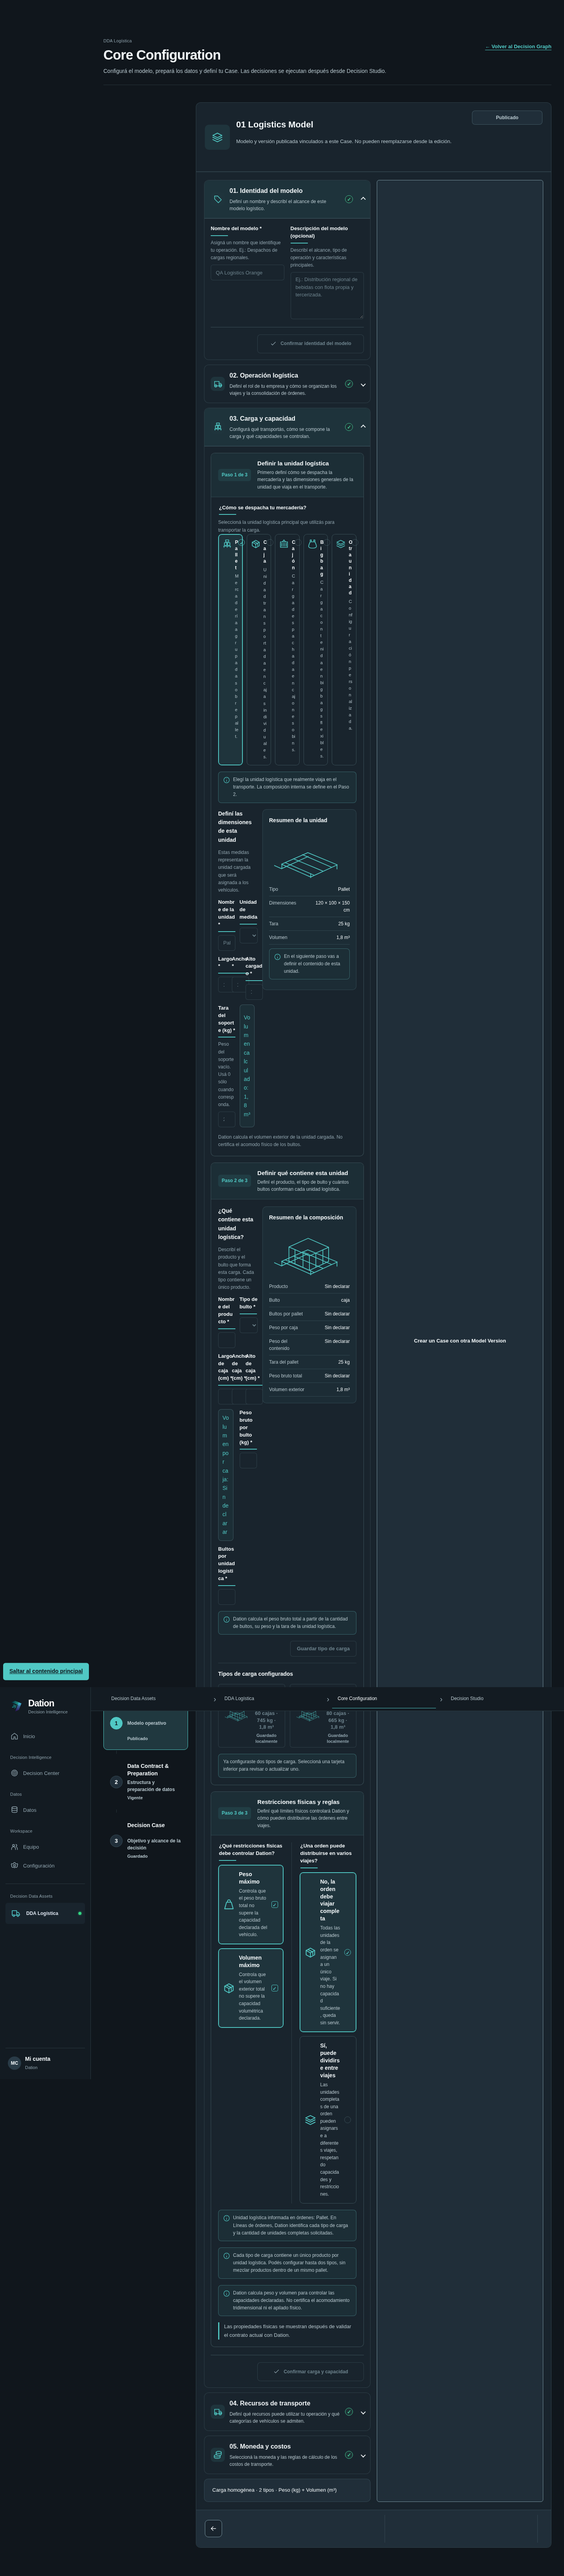
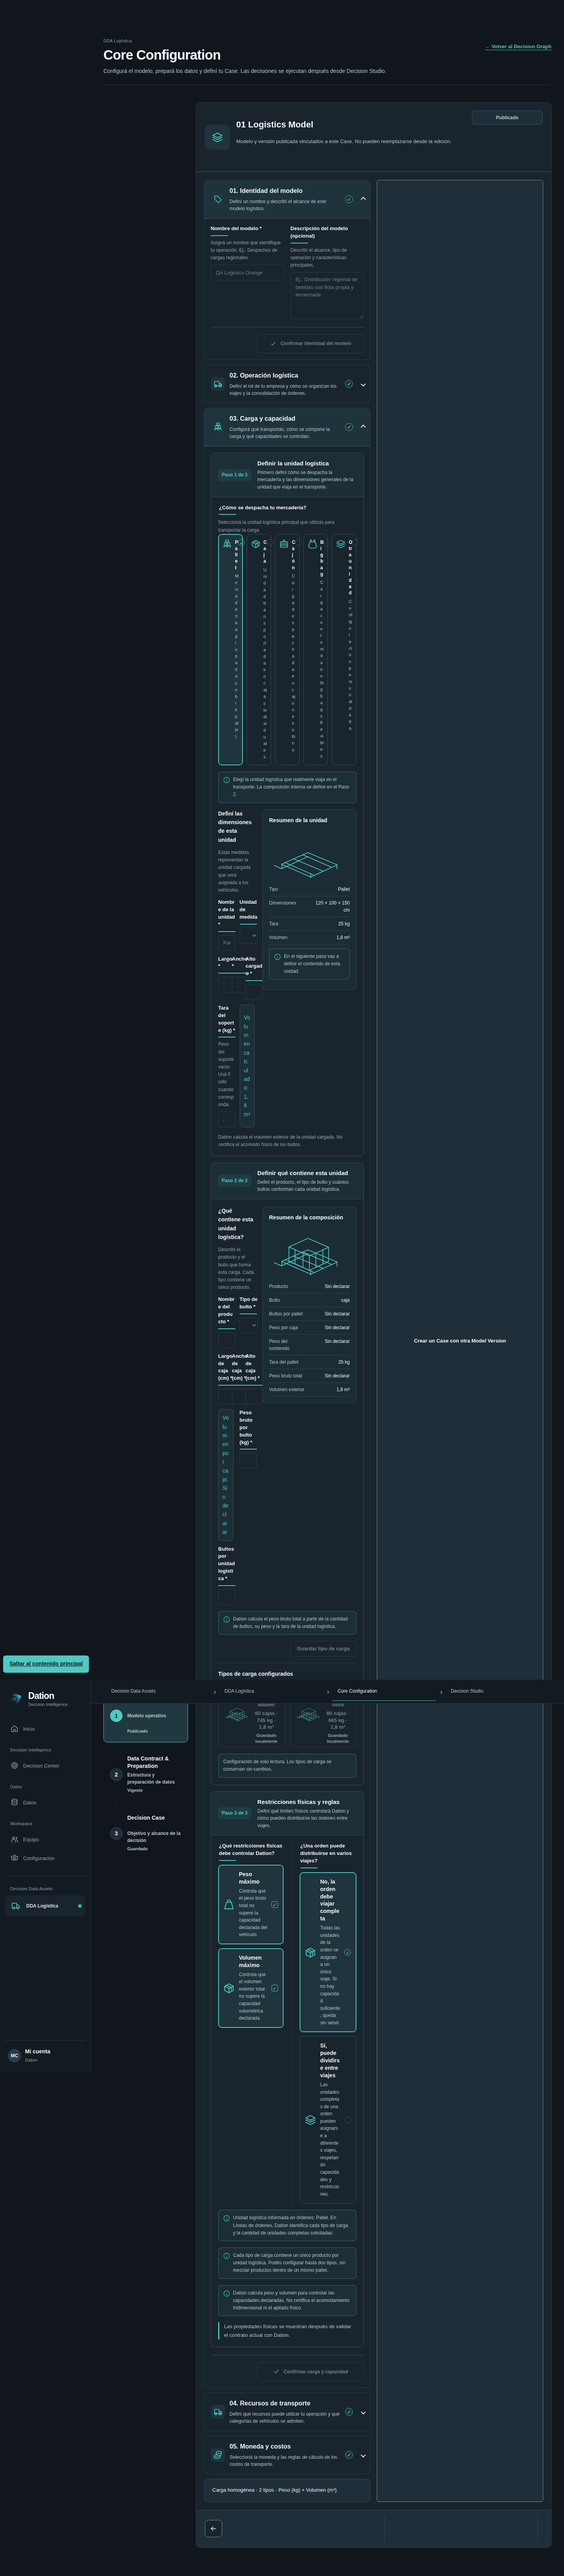
fix(models): describe locked cargo as read-only

Changed region(s): [[0.0, 0.624, 0.1562, 0.7489], [0.1875, 0.6553, 0.3438, 0.7177], [0.0, 0.7801, 0.0312, 0.8113]]

diff --git a/backend/tests/browser/test_saga10_5_r4.py b/backend/tests/browser/test_saga10_5_r4.py
@@ -121,6 +121,7 @@ class R4Tests(fixture.R4Browser):
   for i in range(3):
    await self.page.get_by_role('button',name='Editar datos de origen',exact=True).click();await self.ready(2);await self.page.locator('[data-dation-test=core-step-1]').click();await self.ready(1);await blocks.block(self.page,3)
    await expect(self.page.locator('[data-pro-step]')).to_have_count(3);await expect(self.page.locator('[data-cargo-step]')).to_have_count(0);await expect(self.page.locator('.model-wizard-v2 input:enabled,.model-wizard-v2 select:enabled,.model-wizard-v2 [data-save-load-type]:enabled')).to_have_count(0)
+   await expect(self.page.locator('[data-pro-step="2"]')).to_contain_text('Configuración de solo lectura. Los tipos de carga se conservan sin cambios.');self.assertNotIn('Seleccioná una tarjeta inferior',await self.page.locator('[data-pro-step="2"]').text_content())
    await self.page.screenshot(path=str(OUT/f'published-review-return-{i}.png'),full_page=True,animations='disabled')
    current=await self.api('GET','/api/platform/logistics-models/'+mid);self.assertEqual(current,original)
    await self.page.locator('.journey-return-link').click();await self.page.locator('[data-ux05-ready=true]').wait_for();self.assertEqual(parse_qs(urlparse(self.page.url).query)['case_id'],[cid])

diff --git a/docs/development/saga10-5-r4/README.md b/docs/development/saga10-5-r4/README.md
@@ -30,6 +30,7 @@ Implementación frontend completa desde `797f9fc49b497fb6d266621926cdffbe03640e7
 - Regresión inicial de 46 casos: 44 PASS; dos incidencias focales corregidas. El lector de máximo histórico necesitaba una región con scroll para no exceder el límite de screenshot; el fixture de masa declarada todavía incluía componentes con masa y el backend elegía correctamente esa procedencia. No se cambió física ni se relajó la assertion de procedencia.
 - Verificación final: 27 browser PASS (148.557 s): 13 R4, dos correcciones focales y 12 del wizard V1. Tres comprobaciones adicionales de firmas/teclado/gráficos/capturas PASS (28.540 s), más captura final de ocho estados PASS (18.158 s).
 - 70 contratos originales PASS (1.604 s); cinco regresiones D2/consumidores PASS (0.504 s); siete pruebas del clasificador PASS. Test puro Node/Python de estado/mapeo PASS, incluidos IDs inconsistentes fail-closed.
+- Revisión final de copy readonly: dos E2E PASS (28.766 s), con tres regresos desde Graph y publicación incierta. La vista bloqueada no promete actualizar tarjetas.
 - Los escenarios anteriores se ejecutan también mediante helpers compartidos; no representan necesariamente cobertura distinta. [Migración de pruebas](TEST_MIGRATION.md).
 - Rollback inverso y reaplicación PASS en worktree temporal: ambos árboles coinciden exactamente; evidencia `rollback-dry-run.txt`.
 - CI obligatoria: clasificación real R2, FAST requerido, FULL no requerido. Clasificación completa en `classification.json`. Estado CI terminal y FAST/FULL/required-gate terminal en el PR. No se altera el clasificador ni se omiten gates para reducir pruebas.
